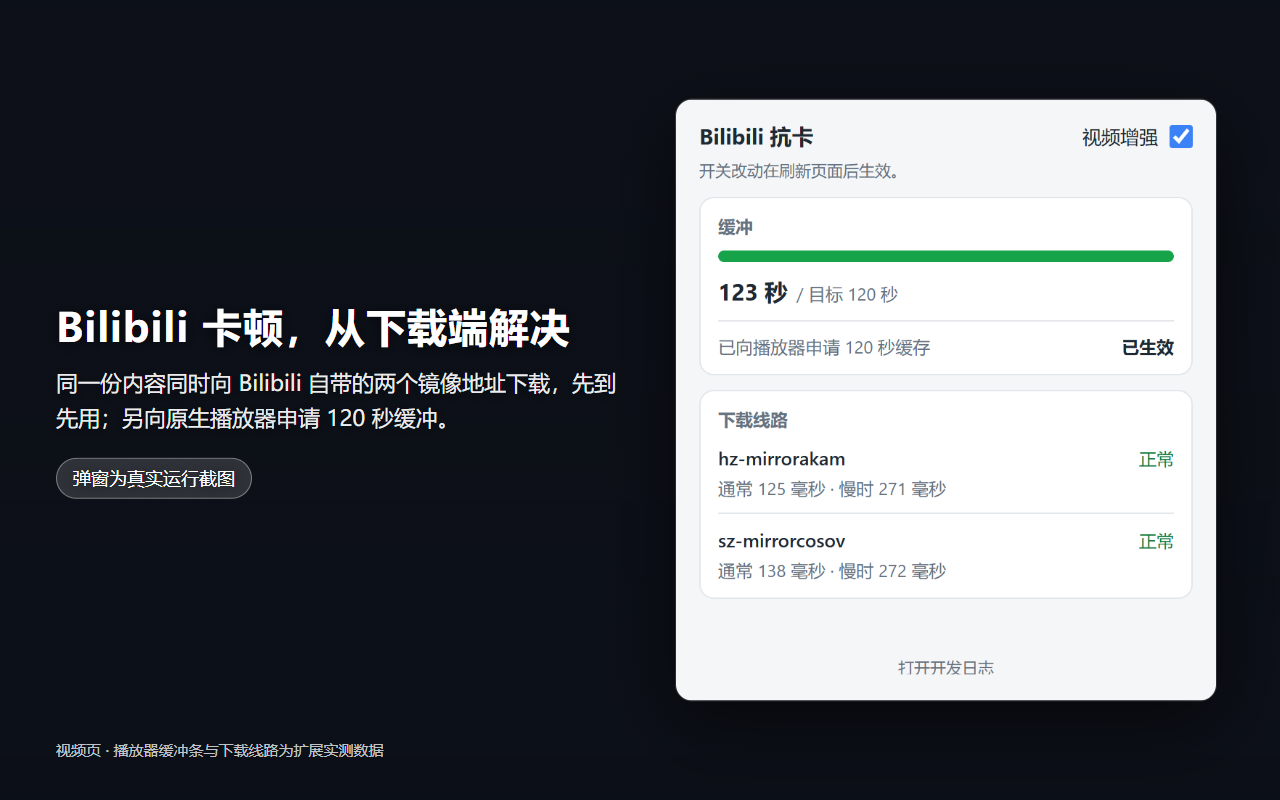
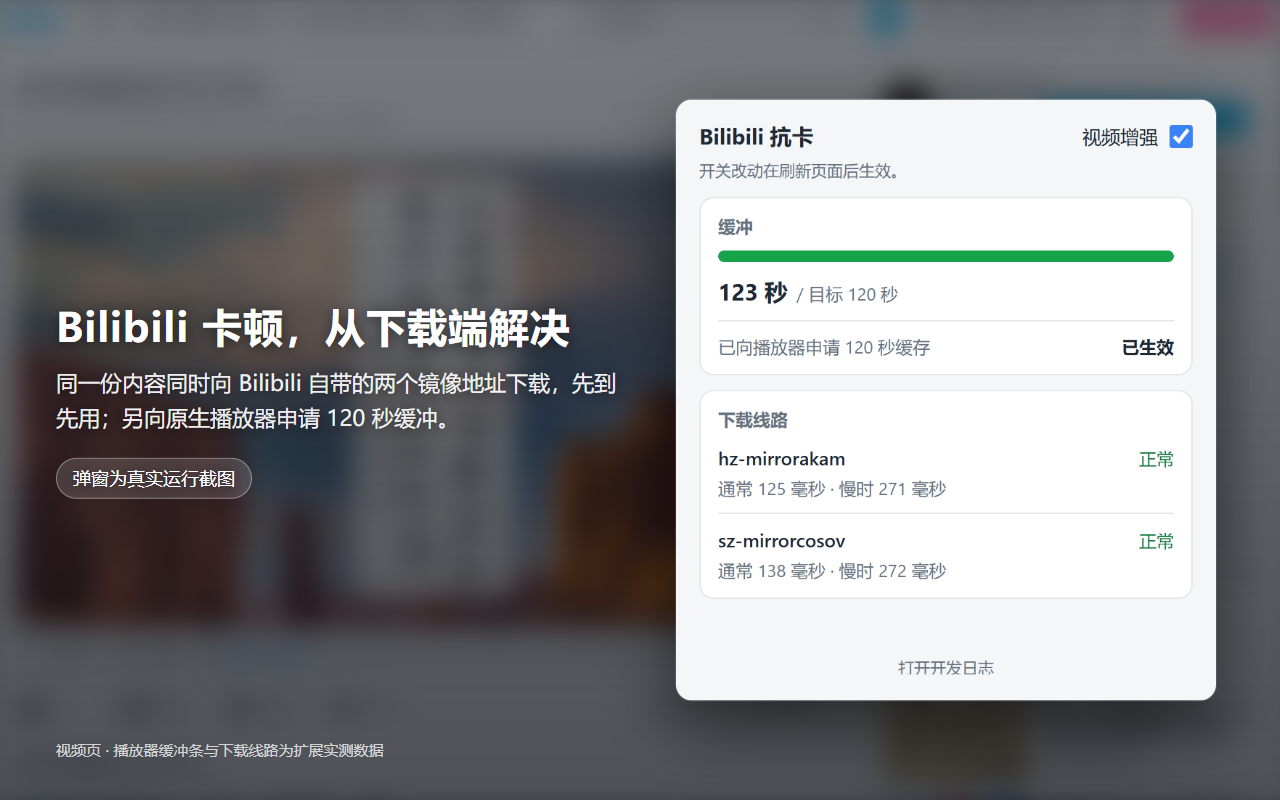
Render the blurred page behind the store screenshots and fail when it is missing
The 1280x800 screenshots were meant to show the real Bilibili page blurred
behind the popup, but the backdrop URL ../../store-images-raw/ is relative to
store/images/src/ and resolved to store/store-images-raw/, which does not
exist; both the original and the re-rendered screenshots shipped a plain dark
canvas. The URL now reaches the repo-root raw directory, and compose.mjs
decodes each backdrop before the screenshot and aborts when it does not load
(verified against the old path as a positive control).

compose.mjs also stops swallowing a missing report.json, which would have
captioned the live screenshot as 未发现 FLV 流, and fills the live caption
note in the rendered page instead of rewriting screenshot-live.html on disk,
so running the regenerate step in the repo leaves tracked sources clean. The
store images README documents the self-checks and no longer claims the live
popup showed single-path takeover; report.json and the image both show racing
on two lines.

Why: the user uploads these screenshots to the Chrome Web Store as they are;
the listing promises a real page behind the popup, and a render that silently
drops it must not pass.

diff --git a/store/images/src/screenshot-video.html b/store/images/src/screenshot-video.html
@@ -33,7 +33,7 @@
 </style>
 </head>
 <body>
-  <div class="page-bg" style="--page-image: url('../../store-images-raw/video-page.png')"></div>
+  <div class="page-bg" style="--page-image: url('../../../store-images-raw/video-page.png')"></div>
   <div class="page-tint"></div>
   <div class="caption">
     <h1>Bilibili 卡顿，从下载端解决</h1>

diff --git a/store/images/src/screenshot-live.html b/store/images/src/screenshot-live.html
@@ -33,7 +33,7 @@
 </style>
 </head>
 <body>
-  <div class="page-bg" style="--page-image: url('../../store-images-raw/live-page.png')"></div>
+  <div class="page-bg" style="--page-image: url('../../../store-images-raw/live-page.png')"></div>
   <div class="page-tint"></div>
   <div class="caption">
     <h1>直播页同样接管下载</h1>

diff --git a/store/images/README.md b/store/images/README.md
@@ -17,13 +17,14 @@
 1. 用捕获脚本得到原始截图到仓库根的 `store-images-raw/`（不提交，已在仓库 .gitignore 中忽略：页面截图含第三方内容）：
    需要 `video-popup-light.png`、`live-popup-light.png`、`video-page.png`、`live-page.png` 与 `report.json`。
 2. `node store/images/src/compose.mjs` → 弹窗特写按原始捕获的完整尺寸原样导出（不做裁切），并渲染上表全部 PNG。
-3. 文案修改直接改 `src/*.html`（截图说明语在 HTML 里；直播说明语按 `report.json` 的实际接管状态自动插值）。
+   每张图渲染前自检：弹窗、说明语和文字块不出画，说明语不压弹窗，标题只在词边界换行，背景页面截图必须加载成功；任一不满足即报错退出。
+3. 文案修改直接改 `src/*.html`（截图说明语在 HTML 里；直播说明语按 `report.json` 的实际接管状态插值到渲染页面，源文件不改）。
 
 ## 捕获来源（2026-09-28）
 
 - commit `9b98bf2`，buildId `src-a310e6b368da2fda35983525`，Chrome 154.0.8037.57（系统 Chrome，Windows），
   临时专用 profile，未登录。
 - 视频：BV1esa36qEbN（播放量 < 10 的冷门视频）；直播：房间 27632810（首页候选里第一个真实进入
-  FLV 接管的房间；gotcha07/07b 竞速后前缀比对不一致，弹窗如实显示单路接管）。
+  FLV 接管的房间；gotcha07/07b 两条线路配对竞速，弹窗显示“正在按两条线路竞速下载”）。
 - 捕获即验证：弹窗读数（缓冲条、120 秒申请状态、线路健康词与连接时间、直播接管行）来自真实运行，
   深色模式经 `prefers-color-scheme` 模拟逐像素核对（健康词整词着色，无半色缺陷）。
